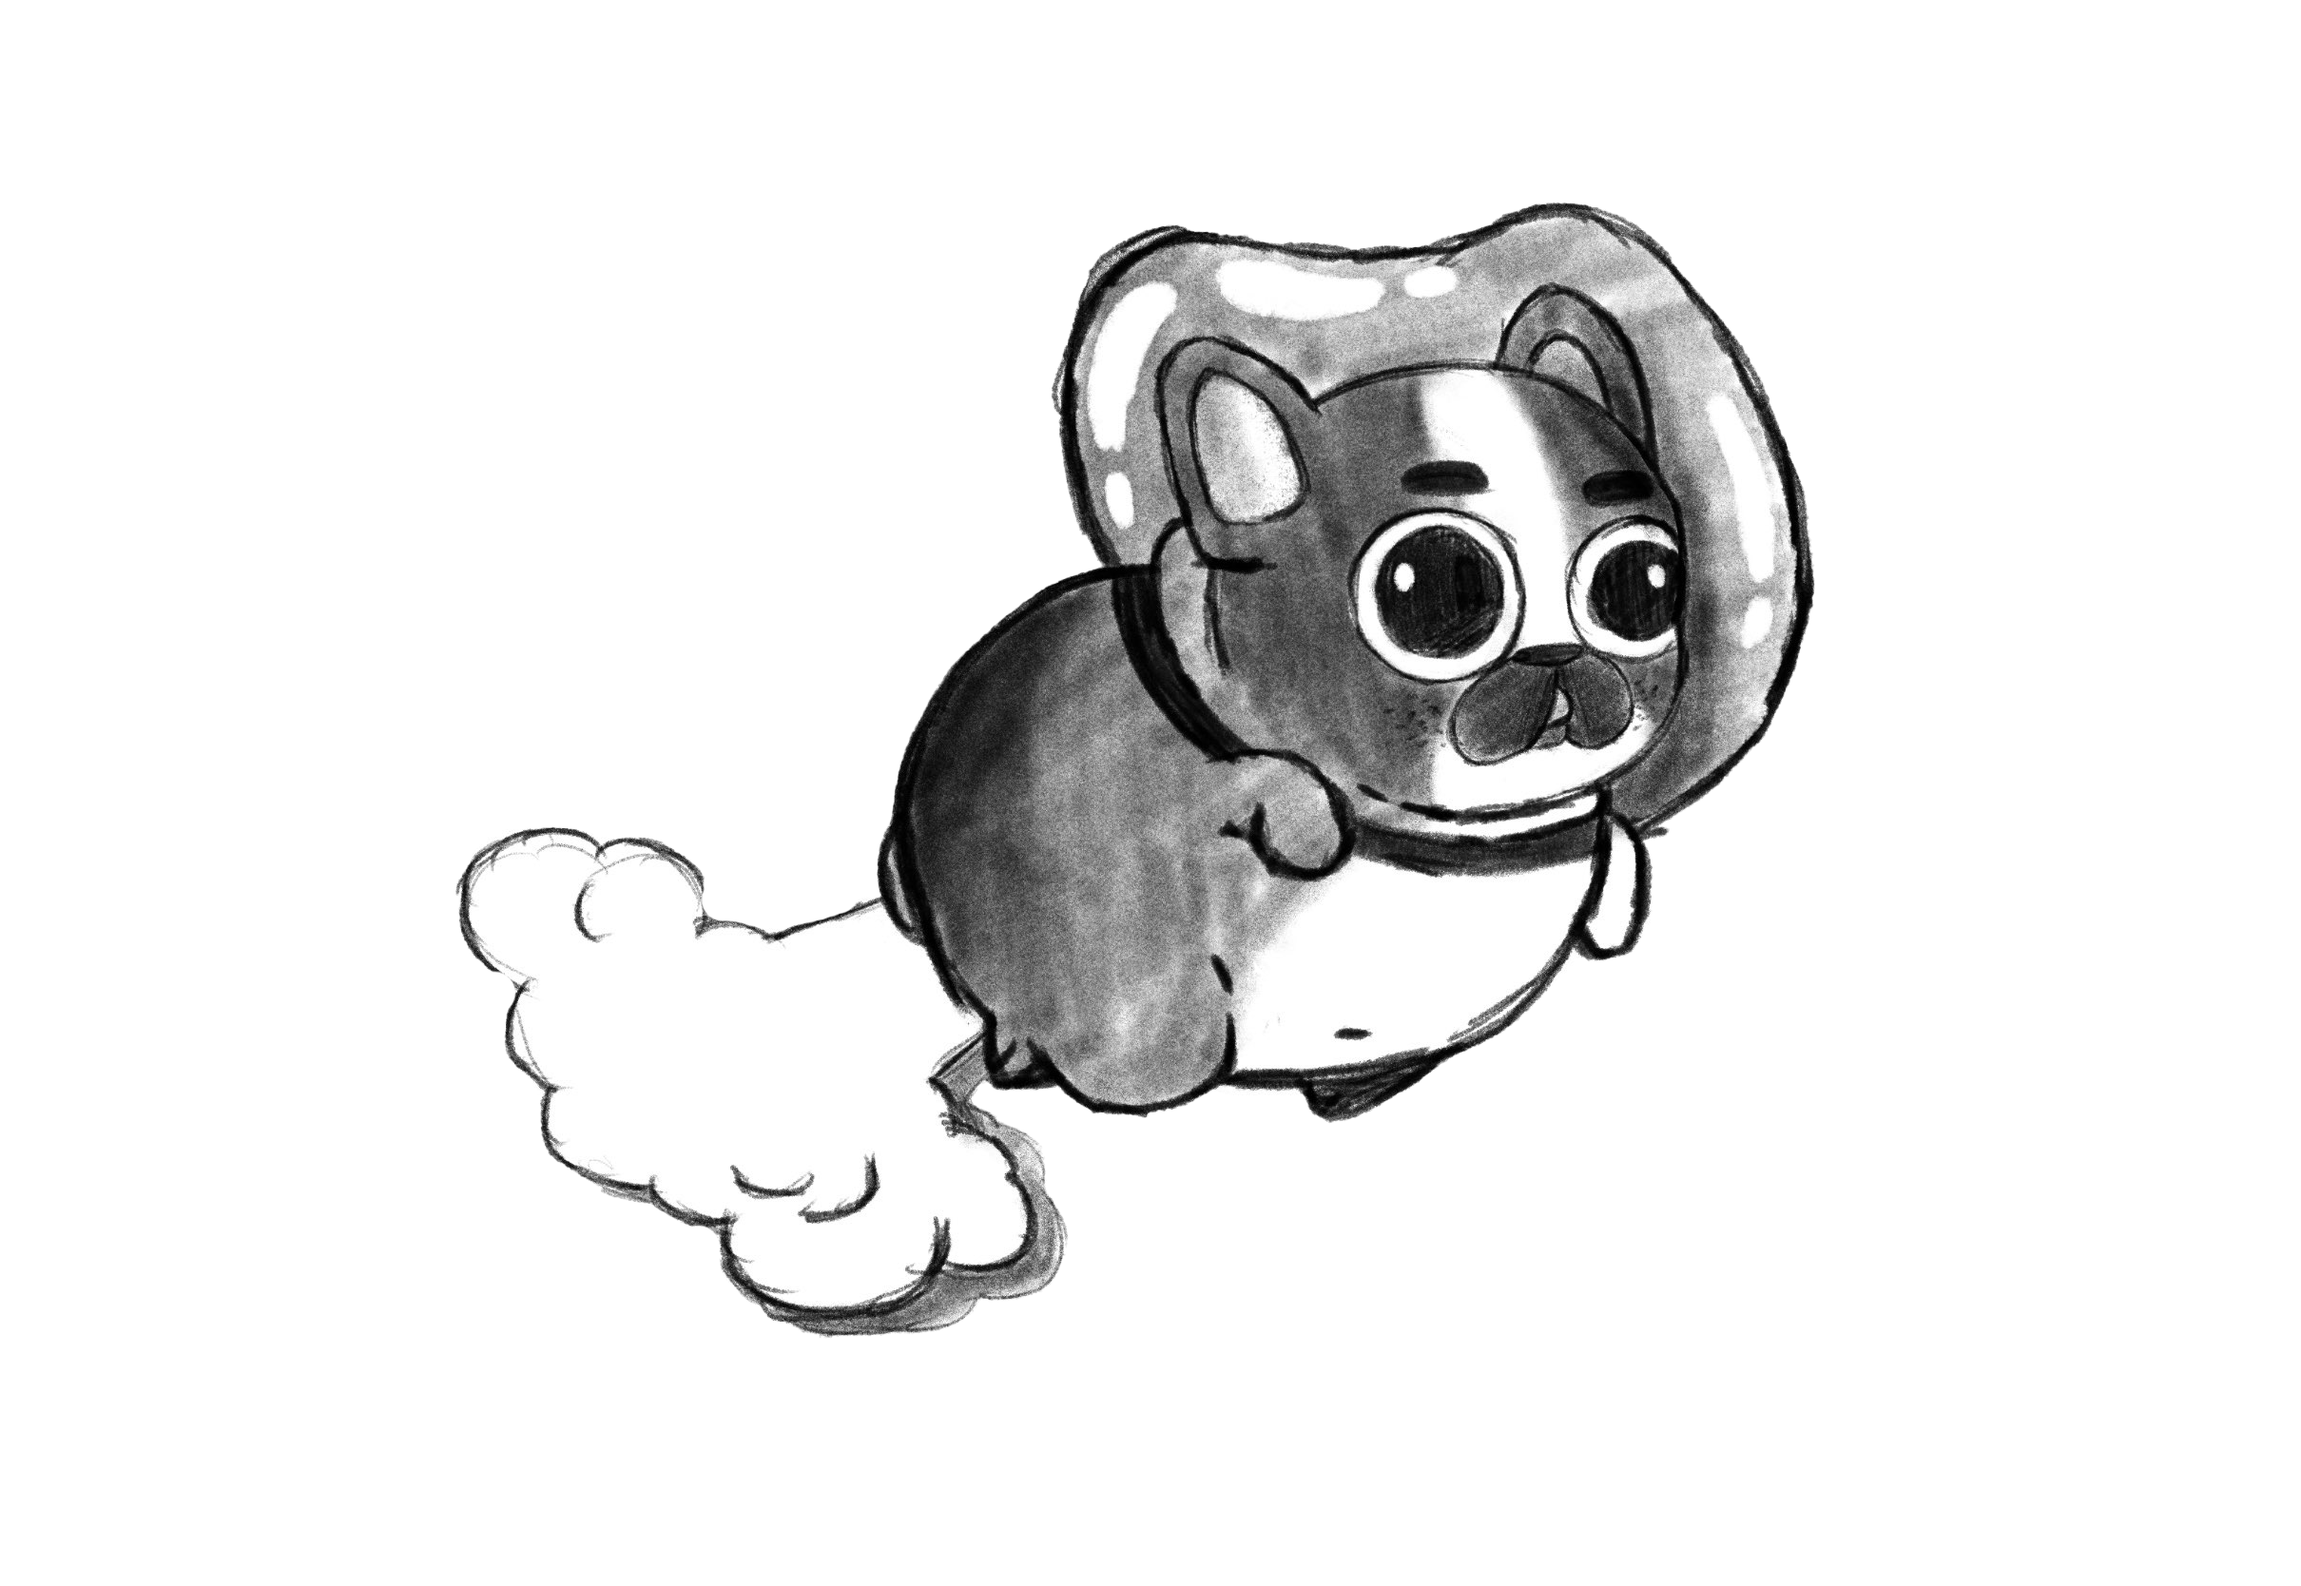
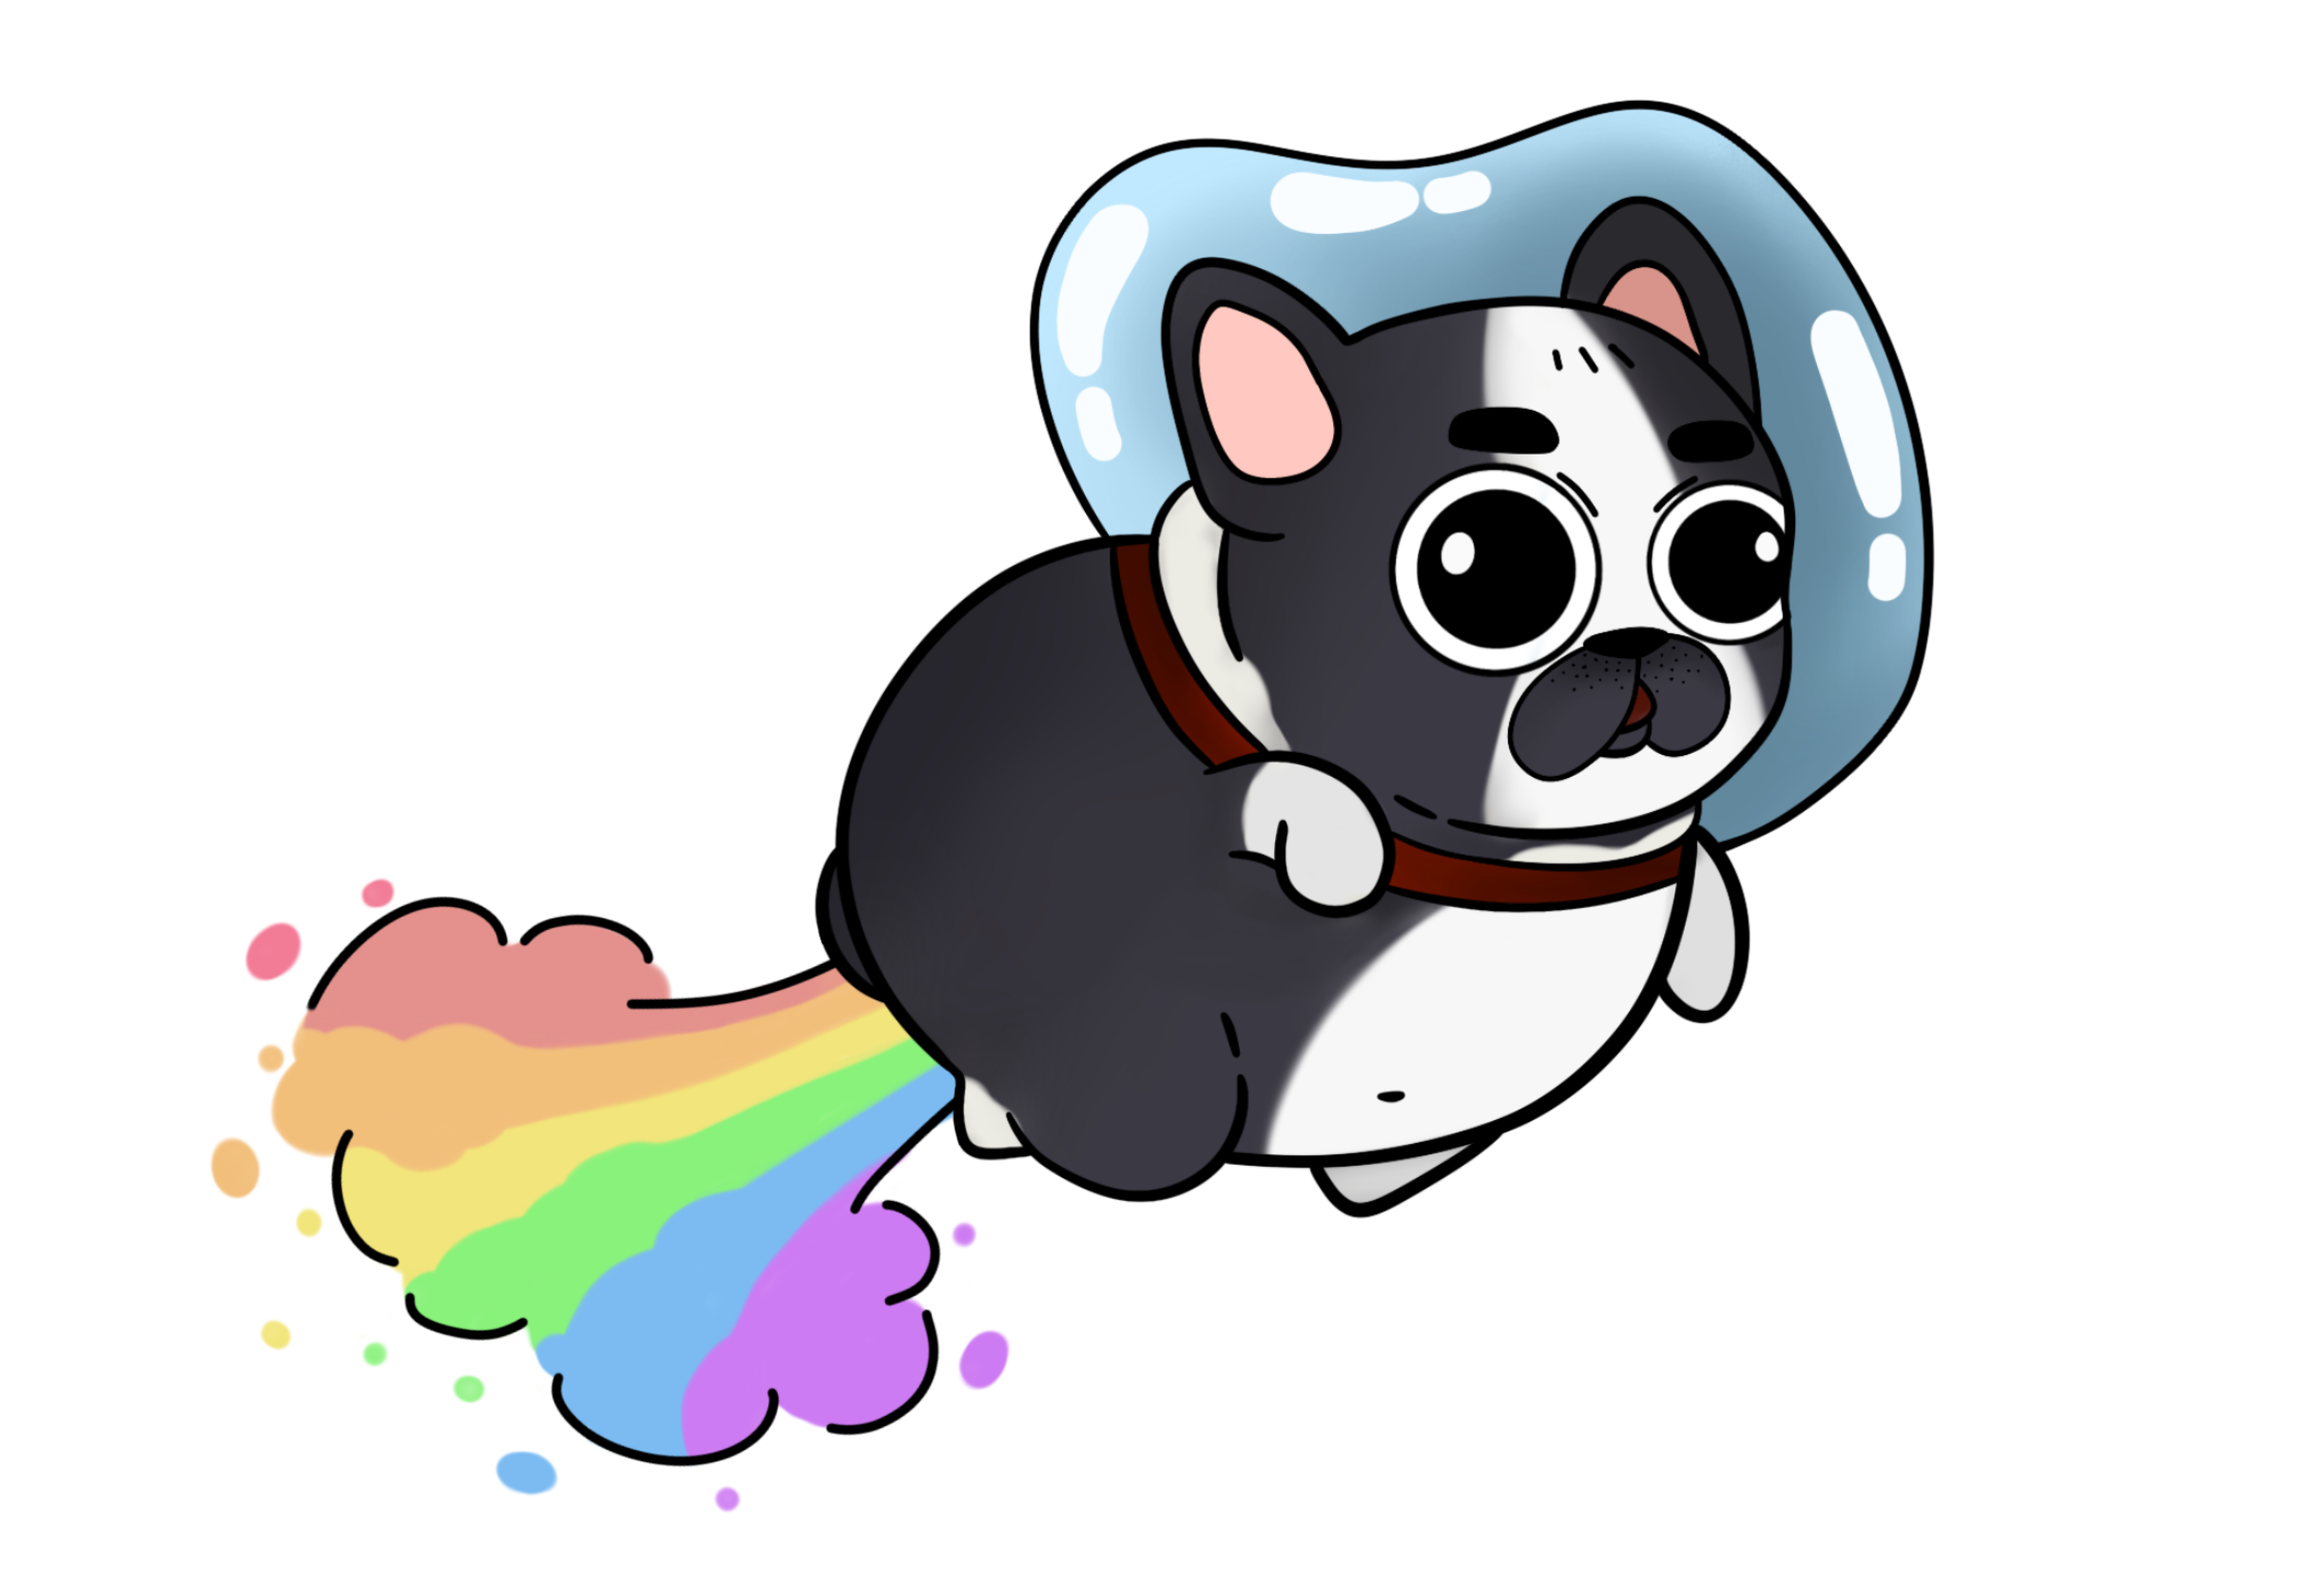
replacing the characters

Changed region(s): [[0.093, 0.0624, 0.8678, 0.9664], [0.2169, 0.4988, 0.2479, 0.53]]

diff --git a/.history/index_20250429094649.html b/.history/index_20250429094649.html
@@ -1,0 +1,112 @@
+<!DOCTYPE html>
+<html lang="en">
+    <head>
+        <meta charset="UTF-8" />
+        <meta
+            name="viewport"
+            content="width=device-width, initial-scale=1.0" />
+        <title>Space Adventure</title>
+        <link
+            rel="stylesheet"
+            href="styles.css" />
+
+        <link
+            rel="preconnect"
+            href="https://fonts.googleapis.com" />
+        <link
+            rel="preconnect"
+            href="https://fonts.gstatic.com"
+            crossorigin />
+        <link
+            href="https://fonts.googleapis.com/css2?family=Ranchers&display=swap"
+            rel="stylesheet" />
+    </head>
+    <body>
+        <div id="game-container">
+            <div class="scrolling-background"></div>
+            <!-- ----------------------- Instructions ----------------------- -->
+            <div
+                id="instructions-container"
+                class="instructions-box">
+                <h3>HOW TO PLAY</h3>
+                <ul>
+                    <li>Use the UP arrow key or W to move up</li>
+                    <li>Use the DOWN arrow key or S to move down</li>
+                    <li>Avoid colliding with planets</li>
+                    <li>Score points by surviving longer</li>
+                </ul>
+                <button id="close-instructions">GOT IT!</button>
+            </div>
+            <!-- ----------------------- CHARACTER SELESCTION SCREEN ----------------------- -->
+            <div id="character-select">
+                <h1>SPACE ANIMALS</h1>
+
+                <div class="text">CHOOSE A CHARACTER TO START</div>
+                <div class="character-options">
+                    <div
+                        class="character-option"
+                        data-character="astronaut">
+                        <div class="character-img">
+                            <img
+                                src="img/dog.png"
+                                alt="Space Dog" />
+                        </div>
+                        <div class="character-label">SPACE DOG</div>
+                    </div>
+                    <div
+                        class="character-option"
+                        data-character="alien">
+                        <div class="character-img">
+                            <img
+                                src="img/pig.png"
+                                alt="Space Pig" />
+                        </div>
+                        <div class="character-label">SPACE PIG</div>
+                    </div>
+                    <div
+                        class="character-option"
+                        data-character="robot">
+                        <div class="character-img">
+                            <img
+                                src="img/cat.png"
+                                alt="Space Cat" />
+                        </div>
+                        <div class="character-label">SPACE CAT</div>
+                    </div>
+                </div>
+                <button
+                    id="confirm-btn"
+                    disabled>
+                    START MISSION
+                </button>
+            </div>
+
+            <!-- ----------------------- GAME SCREEN ----------------------- -->
+
+            <div id="game-screen">
+                <div id="player"></div>
+                <div id="score-container">
+                    <div id="score">SCORE: 0</div>
+                    <button id="pause-btn">PAUSE</button>
+                </div>
+            </div>
+
+            <!-- ----------------------- PAUSE SCREEN ----------------------- -->
+
+            <div id="pause-screen">
+                <h2>GAME PAUSED</h2>
+                <button id="resume-btn">RESUME</button>
+            </div>
+
+            <!-- ----------------------- GAME OVER SCREEN ----------------------- -->
+
+            <div id="game-over">
+                <h2>GAME OVER</h2>
+                <div id="final-score">SCORE: 0</div>
+                <button id="restart-btn">PLAY AGAIN</button>
+            </div>
+        </div>
+
+        <script src="script.js"></script>
+    </body>
+</html>
